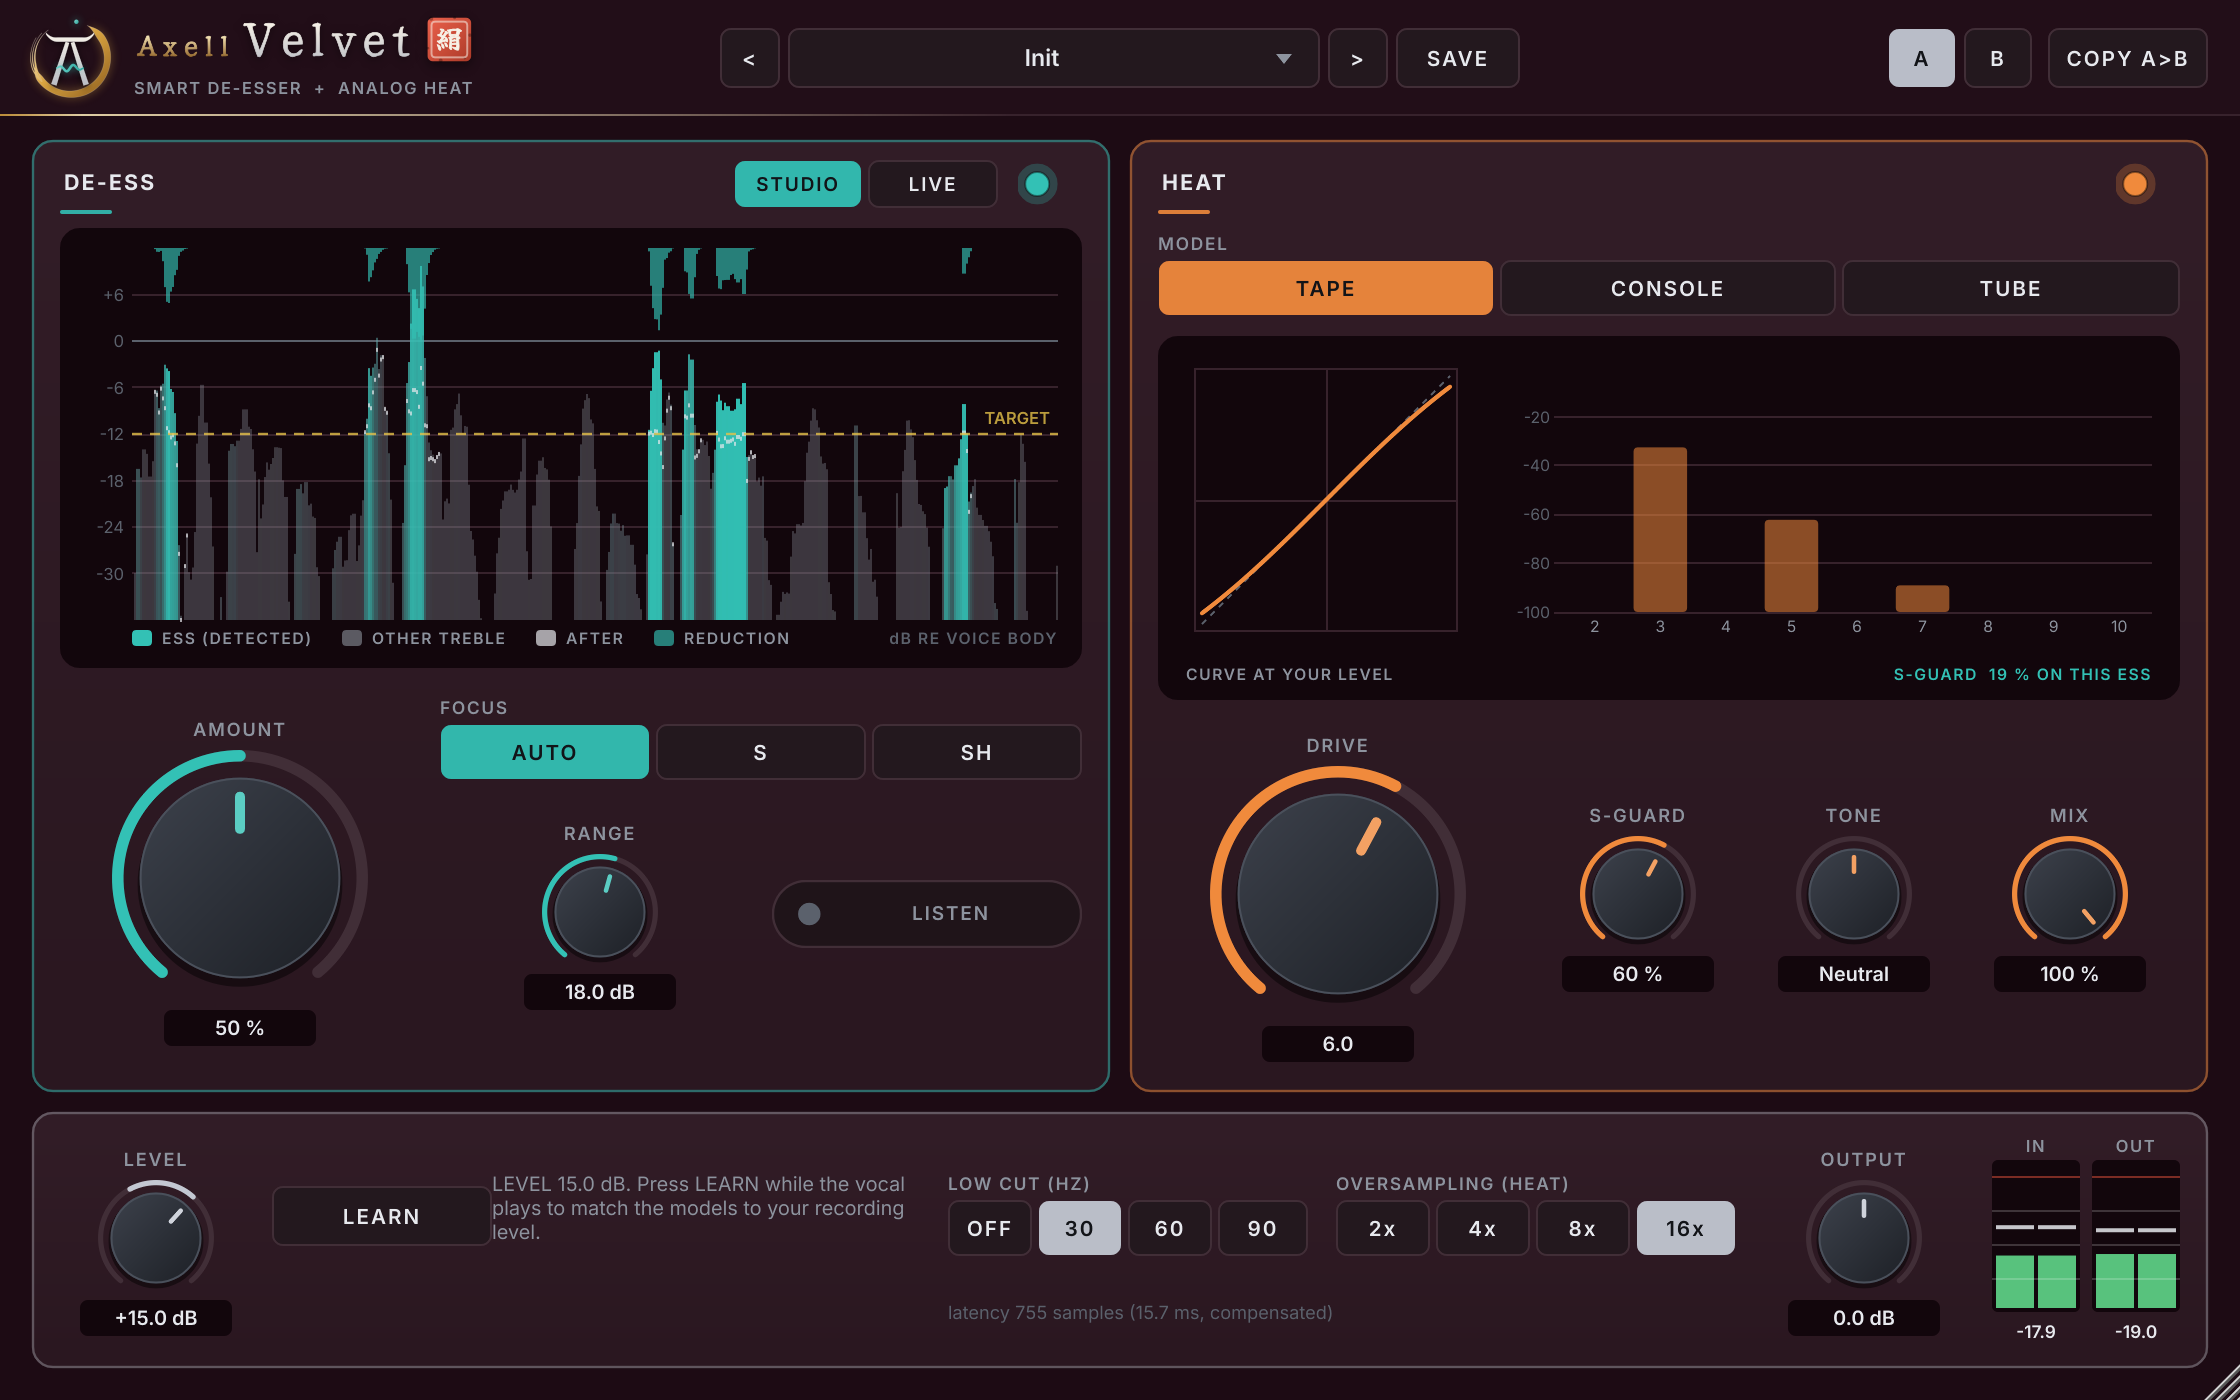
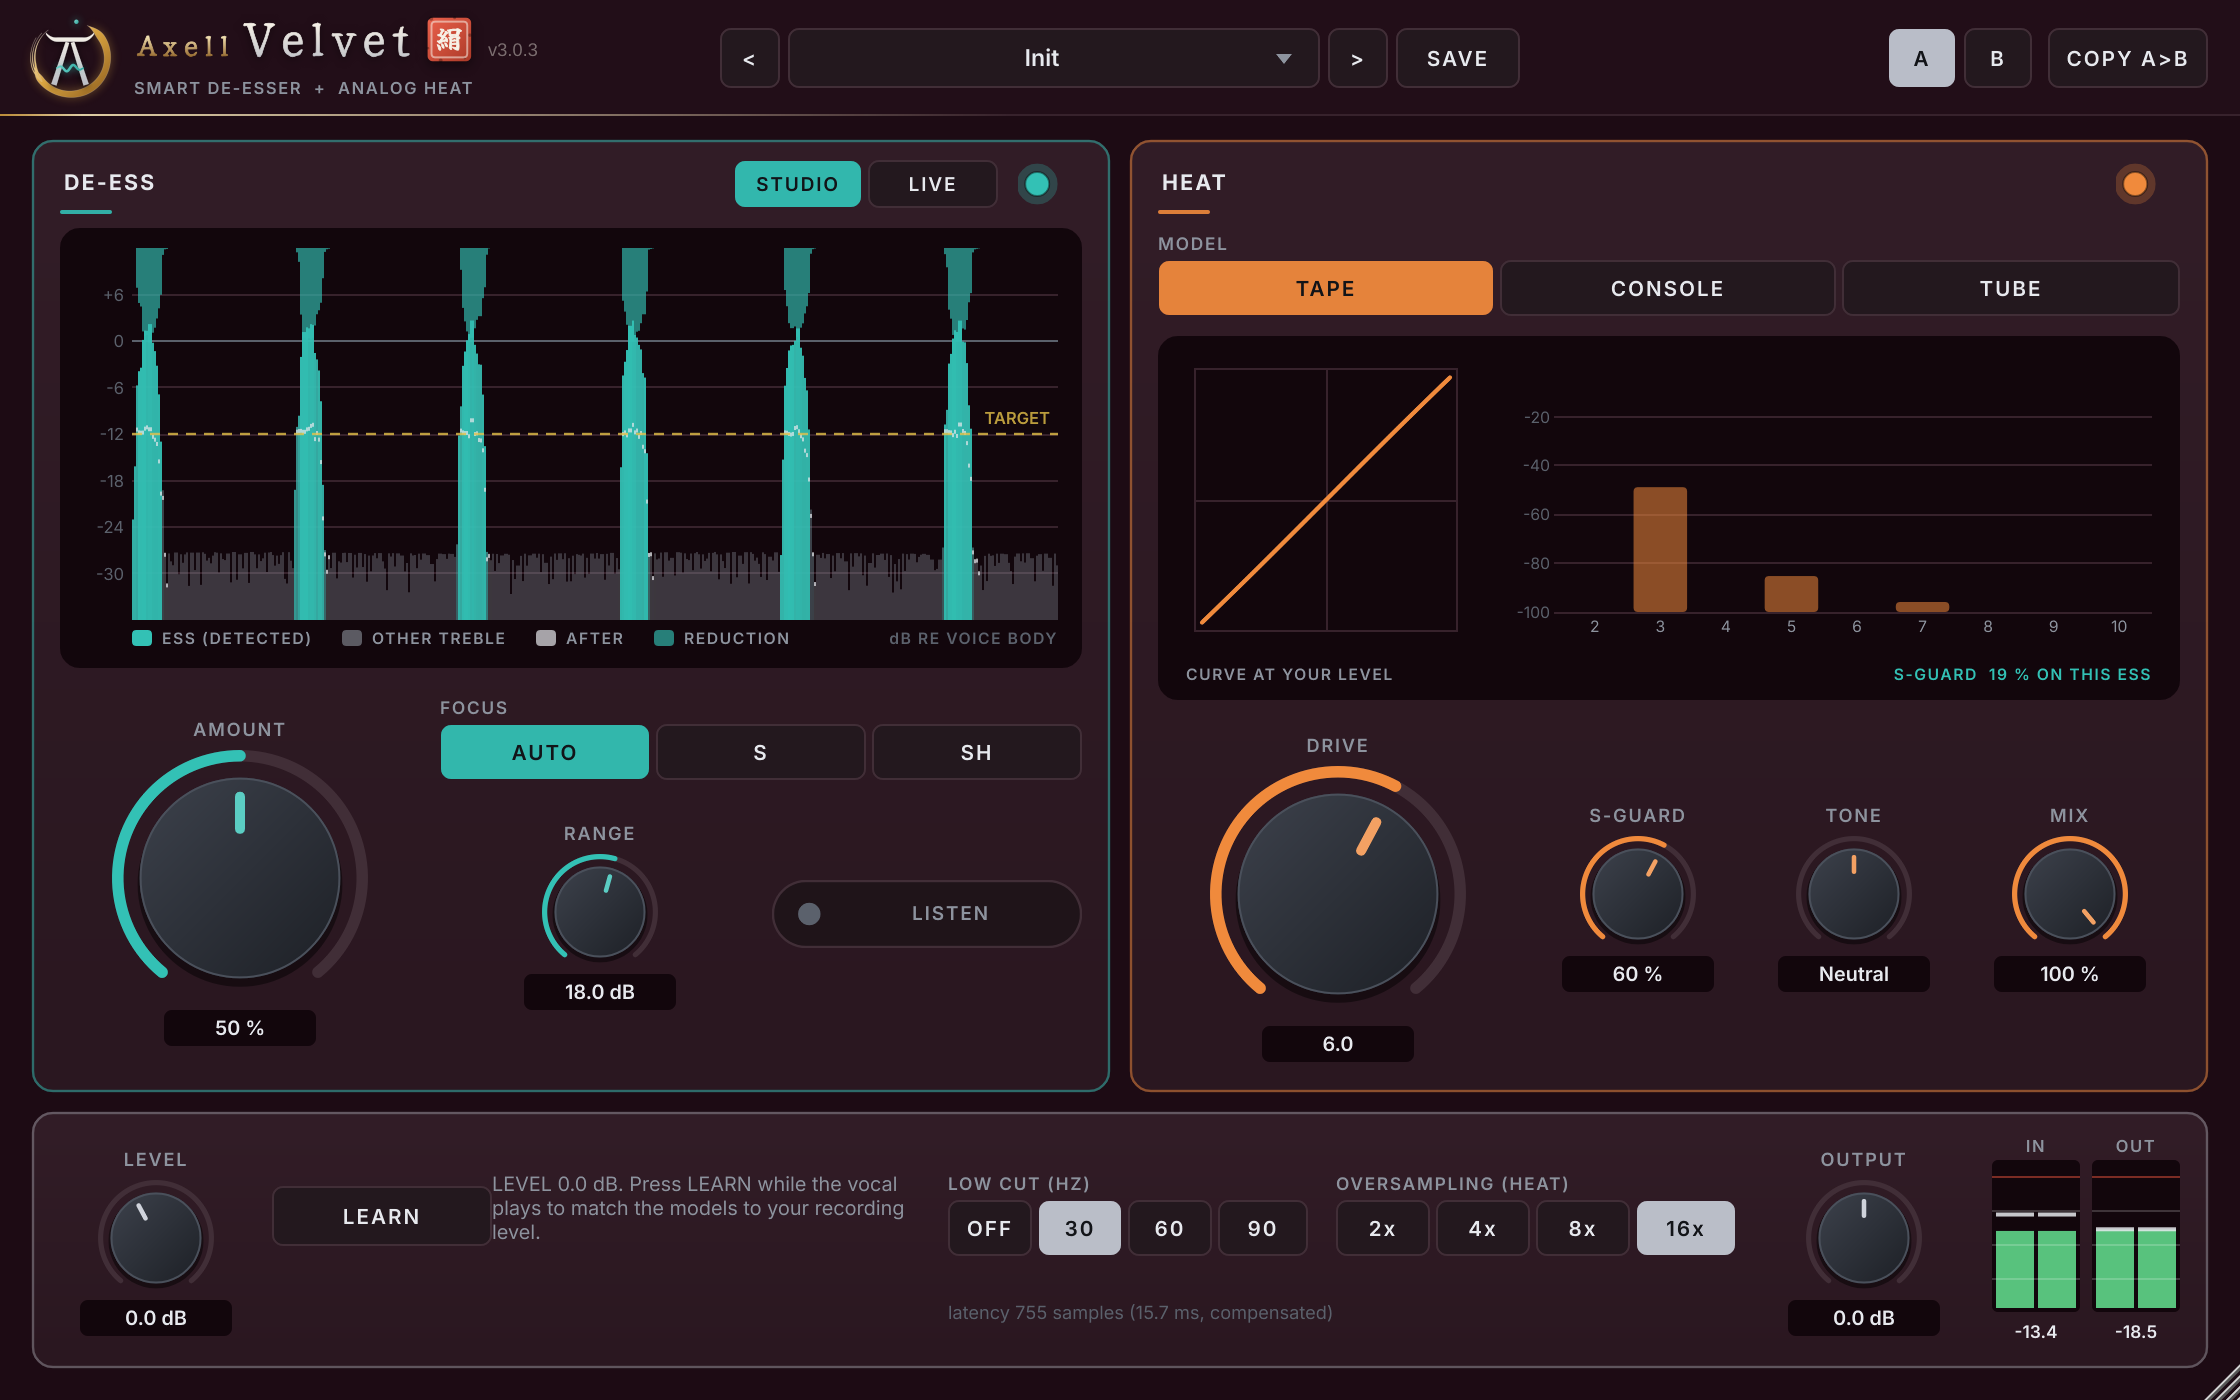
Axell Velvet v3.0.3
The version on the interface; audio unchanged.

diff --git a/external/axell-core/include/axell/gui/BrandTitle.h b/external/axell-core/include/axell/gui/BrandTitle.h
@@ -99,4 +99,28 @@ inline float drawTitle (juce::Graphics& g, float x, float baseline, const juce::
     }
     return right;
 }
+
+// the plugin's version after the title ("v4.0.0"): small and quiet, there to read when it matters (which build is
+// running), never competing with the title. `x` = drawTitle's right edge, `baseline` the title's. Returns the right edge.
+inline float drawVersion (juce::Graphics& g, float x, float baseline, const juce::String& version, float capHeight = 16.5f)
+{
+    using namespace juce;
+    const String s = "v" + version;
+    const Font f (FontOptions (0.62f * capHeight));
+    const float x0 = x + 0.5f * capHeight;
+    g.setFont (f);
+    g.setColour (kIvory.withAlpha (0.42f));
+    g.drawSingleLineText (s, roundToInt (x0), roundToInt (baseline));
+    return x0 + GlyphArrangement::getStringWidth (f, s);
+}
+
+// the same label placed in `area` (a plugin whose header has no room after the title puts it in a margin)
+inline void drawVersionIn (juce::Graphics& g, juce::Rectangle<float> area, const juce::String& version,
+                           juce::Justification just = juce::Justification::centredRight, float capHeight = 16.5f)
+{
+    using namespace juce;
+    g.setFont (Font (FontOptions (0.62f * capHeight)));
+    g.setColour (kIvory.withAlpha (0.42f));
+    g.drawText ("v" + version, area, just, false);
+}
 } // namespace axell::brand

diff --git a/Source/PluginEditor.cpp b/Source/PluginEditor.cpp
@@ -442,7 +442,9 @@ void VelvetEditor::Content::paint (juce::Graphics& g)
     axell::brand::drawHeaderRule (g, (float) e.headerArea.getBottom() - 1.0f, 0.0f, (float) vui::kWidth, col::grid);
     // Axell's Dojo: the family emblem, its wave and dot in Velvet's teal
     axell::brand::drawEmblem (g, { 12.0f, 6.0f, 46.0f, 46.0f }, col::teal);
-    axell::brand::drawTitle (g, 68.0f, 28.0f, "Velvet", juce::String (juce::CharPointer_UTF8 ("\xe7\xb5\xb9"))); // 絹
+    axell::brand::drawVersion (g, axell::brand::drawTitle (g, 68.0f, 28.0f, "Velvet",
+                                                               juce::String (juce::CharPointer_UTF8 ("\xe7\xb5\xb9"))), // 絹
+                               28.0f, AXELL_VERSION_STRING);
     g.setFont (ui::caps (10.0f, 1));
     g.setColour (col::dim);
     g.drawText ("SMART DE-ESSER  +  ANALOG HEAT", 67, 37, 320, 14, Justification::centredLeft);

diff --git a/README.md b/README.md
@@ -120,16 +120,17 @@ what was tried and rejected, is in [docs/DECISIONS.md](docs/DECISIONS.md).
 | **3.0.0** | 2026-10-25 | Detector retrained on 111 voices (MFA labels); LIVE: causal detector + the cut made minimum phase per hop (real cepstrum), zero latency; 192 kHz verified; benchmark vs a third-party de-esser and the classic designs | Unseen accents F1 0.82, 97 % of sibilant energy caught; vowels changed 30-80x less than Sibalance at equal harsh-ess removal (LIVE 20-40x); the artist's takes: harsh esses left 16 -> 8 (LIVE 6); 467 DSP + 58 plugin checks, audit 54/54 |
 | **3.0.1** | 2026-10-26 | Axell's Dojo look (shared core brand title, per-plugin ground) | DSP identical; the same suites, ASan clean, pluginval L10, validator 47/47 |
 | **3.0.2** | 2026-10-26 | Faster pitch analysis in the shared core (the sibilance detector's pitch analysis): eight lags in registers, same summation order | Output byte-identical to 3.0.1; CPU 8.94 -> 8.72 % of one core (-2.4 %) |
+| **3.0.3** | 2026-10-27 | The version on the interface (small and quiet after the title) | Audio byte-identical to 3.0.2 |
 
 Every design decision with its measurement: [docs/DECISIONS.md](docs/DECISIONS.md); all changes: [CHANGELOG.md](CHANGELOG.md).
 
 ## Install (Linux)
 
-Download `AxellVelvet-3.0.2-linux-x86_64.tar.gz` from the
+Download `AxellVelvet-3.0.3-linux-x86_64.tar.gz` from the
 [latest release](https://github.com/zmardanian/axell-velvet/releases/latest) (optional: `sha256sum -c SHA256SUMS.txt`), then:
 
-    tar xzf AxellVelvet-3.0.2-linux-x86_64.tar.gz
-    cd AxellVelvet-3.0.2-linux-x86_64
+    tar xzf AxellVelvet-3.0.3-linux-x86_64.tar.gz
+    cd AxellVelvet-3.0.3-linux-x86_64
     ./install.sh
 
 The installer copies `Axell Velvet.vst3` to `~/.vst3`. Then in REAPER: Options > Preferences > Plug-ins > VST >

diff --git a/CHANGELOG.md b/CHANGELOG.md
@@ -1,5 +1,8 @@
 # Changelog
 
+## 3.0.3 - 2026-10-27
+- **Version on the interface**: the plugin's version, small and quiet after the title - so you can always see which build is loaded. The audio is byte-for-byte the same as 3.0.2 (checked through the released 3.0.2 and the new build).
+
 ## 3.0.2 - 2026-10-26
 - **Faster, bit-identical.** The pitch analysis inside the sibilance detector's pitch analysis (YIN's difference function) now computes eight lags at a time in registers on a straight copy of the window; every lag still adds its terms in the same order, so the output is byte-for-byte the same as 3.0.1 (checked on four of the artist's takes through the installed 3.0.1 and the new build). CPU at 48 kHz, 128-sample blocks: 8.94 -> 8.72 % of one core (-2.4 %).
 
